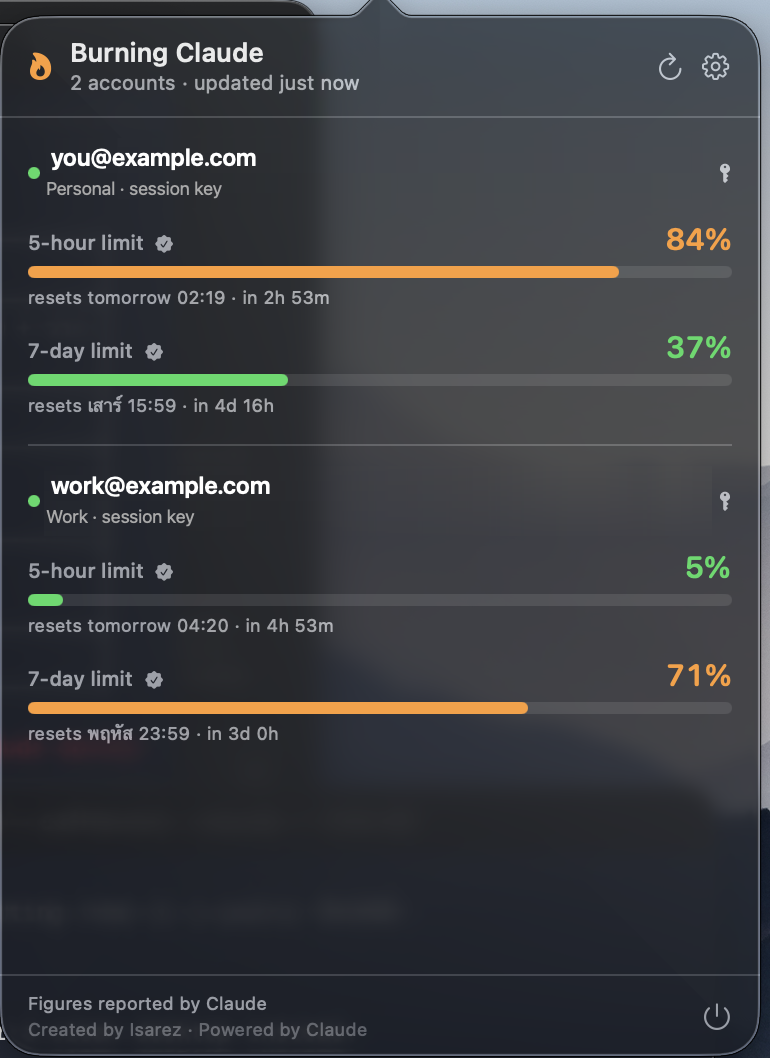
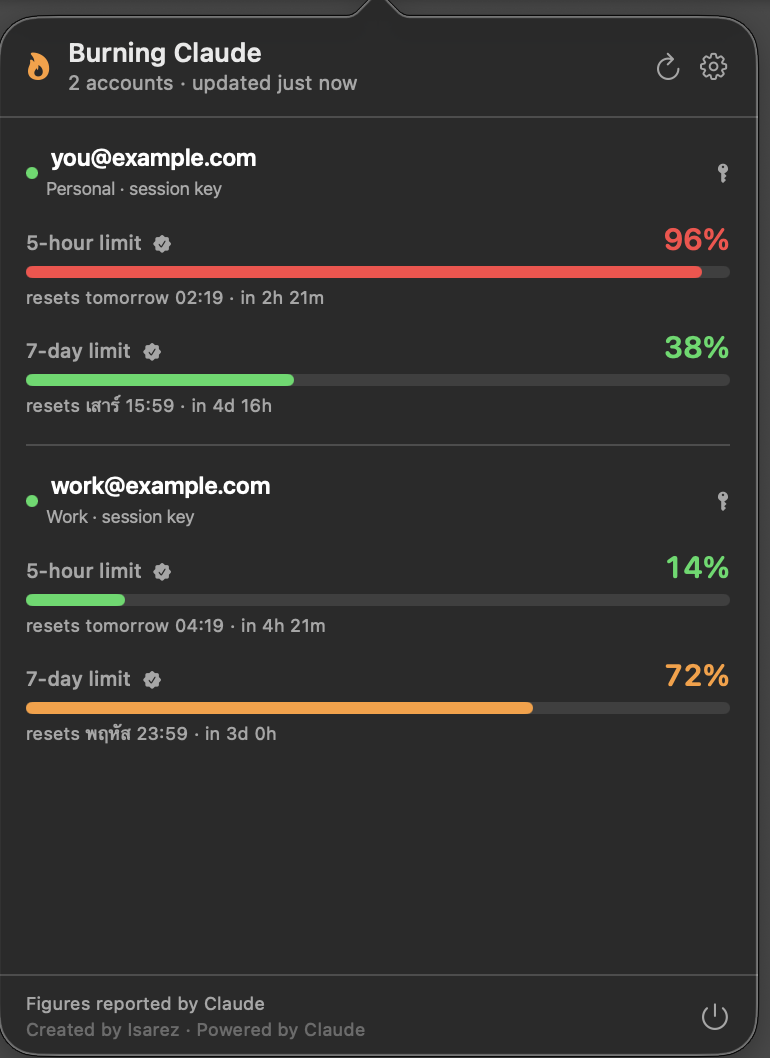
README: lead with the .pkg, tighten prose, clean up screenshots
The package route needs no quarantine step, so it goes first and Homebrew
becomes Option B.

Requirements, Install and Find your session key were each a section where
a table would do; the browser instructions collapse from three numbered
lists into three rows.

Recaptures the panel and menu bar against a plain backdrop — the previous
shots were translucent over whatever was on screen — and blurs the home
directory paths under "Found on this Mac".

diff --git a/README.md b/README.md
@@ -10,7 +10,7 @@
 </p>
 
 <p align="center">
-  <img src="docs/menu-bar.png" width="425" alt="Burning Claude in the menu bar">
+  <img src="docs/menu-bar.png" width="396" alt="Burning Claude in the menu bar">
 </p>
 
 ---
@@ -74,10 +74,9 @@ account list.
 </p>
 
 The key is **checked against claude.ai before anything is saved**, so a typo or
-an expired cookie fails right here instead of becoming a permanently broken row.
-Once accepted it goes into your **login keychain** and the account appears in
-the list. See [Find your session key](#find-your-session-key) for where to get
-the cookie.
+an expired cookie fails here rather than becoming a broken row. It then goes
+into your **login keychain**. See [Find your session
+key](#find-your-session-key) for where to get the cookie.
 
 > A session key grants full access to the account — treat it like a password.
 > The usage endpoint it reads is a private API, and
@@ -87,79 +86,31 @@ the cookie.
 
 ## Requirements
 
-### Your Mac
-
 | | |
 |---|---|
-| **macOS** | **14 Sonoma or later.** Earlier versions will not launch it. |
-| **Chip** | **Apple silicon (M1 and later) only.** The released `.pkg`, `.zip` and Homebrew cask are `arm64`, not universal. |
-| **Intel Macs** | Not supported by the release. Rosetta does not help — it translates Intel to Apple silicon, not the reverse. Build from source (Option C) and you get a native `x86_64` binary that works. |
-| **Disk** | ~3 MB. Nothing else to install: SwiftUI and AppKit ship with macOS. |
-| **Dock** | None. It is a menu bar item only, so you will not find it in the Dock or the app switcher. |
+| **macOS** | 14 Sonoma or later |
+| **Chip** | **Apple silicon only.** The release is `arm64`, not universal. Intel Macs must build from source — Rosetta does not help, it translates the other direction. |
+| **Disk** | ~3 MB. Nothing else to install; SwiftUI ships with macOS. |
+| **Dock** | None — menu bar item only. |
 
-### A Claude account
+**And a Claude account**, in one of two forms. Either alone is enough, and you
+can use both:
 
-You need **at least one** of these two. Either alone is enough, and you can use
-both together.
-
-| | What it needs | Notes |
+| | Needs | Notes |
 |---|---|---|
-| **Session key** | A [claude.ai](https://claude.ai) account and a browser signed in to it | Reads the whole account on demand. Your plan must be metered on the **5-hour / 7-day** windows (Pro and Max are) — if the account reports neither, sign-in is rejected instead of showing an empty row. |
-| **Config directory** | [Claude Code](https://claude.com/claude-code) installed and signed in | `claude` must be on the `PATH` your login shell sets up (`.zshrc`, `.zprofile`), because the app asks the shell for it with `command -v claude`. |
+| **Session key** | A [claude.ai](https://claude.ai) account, signed in to a browser | Your plan must be metered on the 5-hour / 7-day windows (Pro and Max are). If neither is reported, sign-in is rejected rather than showing an empty row. |
+| **Config directory** | [Claude Code](https://claude.com/claude-code), signed in | `claude` must be on the `PATH` your login shell sets up, since the app finds it with `command -v claude`. |
 
-No Anthropic **API key** is needed, and none is used. This reads your
-subscription limits, not the API's.
+No Anthropic **API key** is used — this reads subscription limits, not the API.
 
-### Permissions the app asks for
-
-| | When | Required? |
-|---|---|---|
-| **Login keychain** | The first time a session key is stored | Yes, for session-key accounts. macOS may ask you to confirm. |
-| **Notifications** | First launch | Optional — only for threshold alerts. Denying it changes nothing else. |
-| **Network** | Each refresh, for session-key accounts | HTTPS to `claude.ai` only. Config-directory accounts work completely offline. |
-
-It does **not** need Full Disk Access, Accessibility, Screen Recording, or an
-admin password to run.
-
-### One-time setup steps
-
-- **Gatekeeper.** The build is ad-hoc signed but **not notarized** — there is no
-  Developer ID behind this — so you must clear the quarantine flag once (see
-  [Install](#install)). Without it macOS refuses to open the app.
-- **Login items.** Nothing starts it automatically. Add it under **System
-  Settings › General › Login Items** if you want it after a restart.
-
-### Optional extras
-
-| | For |
-|---|---|
-| [**Homebrew**](https://brew.sh) | The one-line install (Option A) |
-| **Terminal** | *Add config directory* opens Terminal to run `claude auth login` for you |
-| [**jq**](https://jqlang.github.io/jq/) | The status-line snippet that publishes live figures |
-| **Swift 5.9+** | Building from source — Command Line Tools is enough, no Xcode |
+**What it asks of macOS:** the **login keychain** (only to store a session key),
+**notifications** (optional, for threshold alerts), and **network access to
+`claude.ai`** (only for session-key accounts — config directories work
+offline). It needs no Full Disk Access, Accessibility, or admin password.
 
 ## Install
 
-### Option A — Homebrew (recommended)
-
-```bash
-brew install Isarez/tap/burning-claude
-xattr -dr com.apple.quarantine /Applications/BurningClaude.app
-open /Applications/BurningClaude.app
-```
-
-1. **Install.** Naming the tap in full installs from it directly — no separate
-   `brew tap`, and no `--cask`. Afterwards the short
-   `brew install burning-claude` works too.
-2. **Clear the quarantine flag.** Not optional: the build is ad-hoc signed but
-   not notarized, so Gatekeeper refuses to open it until the flag Homebrew sets
-   is cleared.
-3. **Launch.** The flame appears in the menu bar.
-
-To remove it: `brew uninstall burning-claude`, or `--zap` to take settings and
-usage history with it.
-
-### Option B — installer package
+### Option A — installer package (recommended)
 
 1. Download `BurningClaude-<version>.pkg` from the
    [latest release](https://github.com/Isarez/burning-claude/releases/latest).
@@ -170,53 +121,62 @@ usage history with it.
    sudo installer -pkg ~/Downloads/BurningClaude-1.0.1.pkg -target /
    ```
 
-3. It installs to `/Applications` and launches itself. Any running copy is
-   quit first; settings, tracked accounts and usage history are left alone.
+3. It installs to `/Applications` and launches itself. Any running copy is quit
+   first; settings, accounts and usage history are left alone.
+
+No quarantine flag to clear on this route — unlike a downloaded `.zip`, a
+package's payload does not carry one.
+
+### Option B — Homebrew
+
+```bash
+brew install Isarez/tap/burning-claude
+xattr -dr com.apple.quarantine /Applications/BurningClaude.app
+open /Applications/BurningClaude.app
+```
+
+Naming the tap in full installs from it directly — no separate `brew tap`, no
+`--cask`. The second line is **not optional**: the build is ad-hoc signed but
+not notarized, so Gatekeeper refuses to open it until the flag Homebrew sets is
+cleared.
+
+Uninstall with `brew uninstall burning-claude`, or `--zap` to take settings and
+usage history too.
 
 ### Option C — build it yourself
 
 ```bash
 git clone https://github.com/Isarez/burning-claude.git
 cd burning-claude
-./build-app.sh
-cp -R build/BurningClaude.app /Applications/
-open /Applications/BurningClaude.app
+./build-app.sh && cp -R build/BurningClaude.app /Applications/
 ```
 
-`./make-pkg.sh` builds an installer package into `dist/` instead.
+Needs Swift 5.9+ — Command Line Tools is enough, no Xcode. `./make-pkg.sh`
+builds an installer package into `dist/` instead.
 
 ### After installing
 
-The app runs as a menu bar item only — no Dock icon. Quit from the power button
-in the panel footer. Nothing starts it at login; add it under **System Settings
-› General › Login Items** if you want it back after a restart.
+Quit from the power button in the panel footer. Nothing starts it at login; add
+it under **System Settings › General › Login Items** if you want it back after
+a restart.
 
 ## Find your session key
 
-You need the value of the `sessionKey` cookie for `https://claude.ai`. It starts
-with `sk-ant-sid01-` and is about 100 characters long. Sign in to
-[claude.ai](https://claude.ai) first, then:
+You need the `sessionKey` cookie for `https://claude.ai` — it starts with
+`sk-ant-sid01-`. Sign in to [claude.ai](https://claude.ai) first, then open the
+developer tools with <kbd>⌥</kbd><kbd>⌘</kbd><kbd>I</kbd>:
 
-**Chrome, Edge, Brave, Arc, Opera**
-1. Press <kbd>⌥</kbd><kbd>⌘</kbd><kbd>I</kbd> to open DevTools
-2. **Application** tab → **Storage** → **Cookies** → `https://claude.ai`
-3. Click `sessionKey`, then copy its **Value** (right-click → Copy value)
+| Browser | Where |
+|---|---|
+| **Chrome, Edge, Brave, Arc, Opera** | **Application** → Storage → **Cookies** → `https://claude.ai` |
+| **Safari** | **Storage** → **Cookies** → `claude.ai` — first enable *Safari → Settings → Advanced → Show features for web developers* |
+| **Firefox** | **Storage** → **Cookies** → `https://claude.ai` |
 
-**Safari**
-1. Enable the developer tools once: **Safari → Settings → Advanced →
-   Show features for web developers**
-2. Press <kbd>⌥</kbd><kbd>⌘</kbd><kbd>I</kbd> to open the Web Inspector
-3. **Storage** tab → **Cookies** → `claude.ai` → copy the `sessionKey` value
+Click `sessionKey`, copy its **Value**, and paste it into **Settings →
+Accounts → Sign in with session key…**.
 
-**Firefox**
-1. Press <kbd>⌥</kbd><kbd>⌘</kbd><kbd>I</kbd> to open DevTools
-2. **Storage** tab → **Cookies** → `https://claude.ai`
-3. Double-click the `sessionKey` value and copy it
-
-Then paste it into **Settings → Accounts → Sign in with session key…**. Keys
-expire when you sign out of claude.ai in that browser — the panel says so
-explicitly rather than silently reading 0%, and you just remove the account and
-add it again.
+Keys stop working when you sign out of claude.ai in that browser. The panel
+says so explicitly instead of reading 0% — remove the account and add it again.
 
 ## Tracking Claude Code instead (or as well)
 
